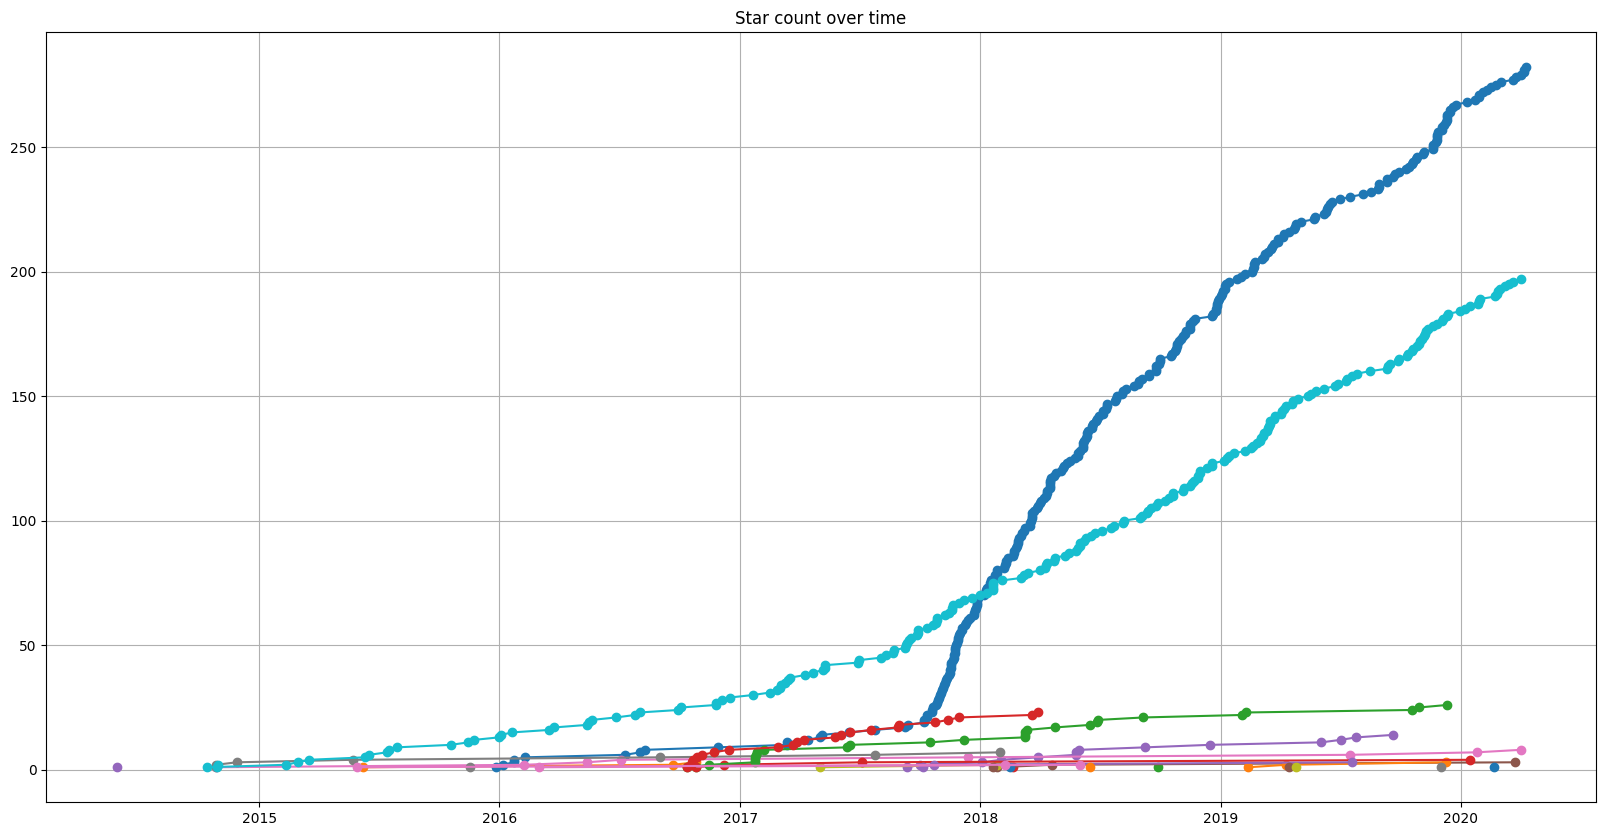
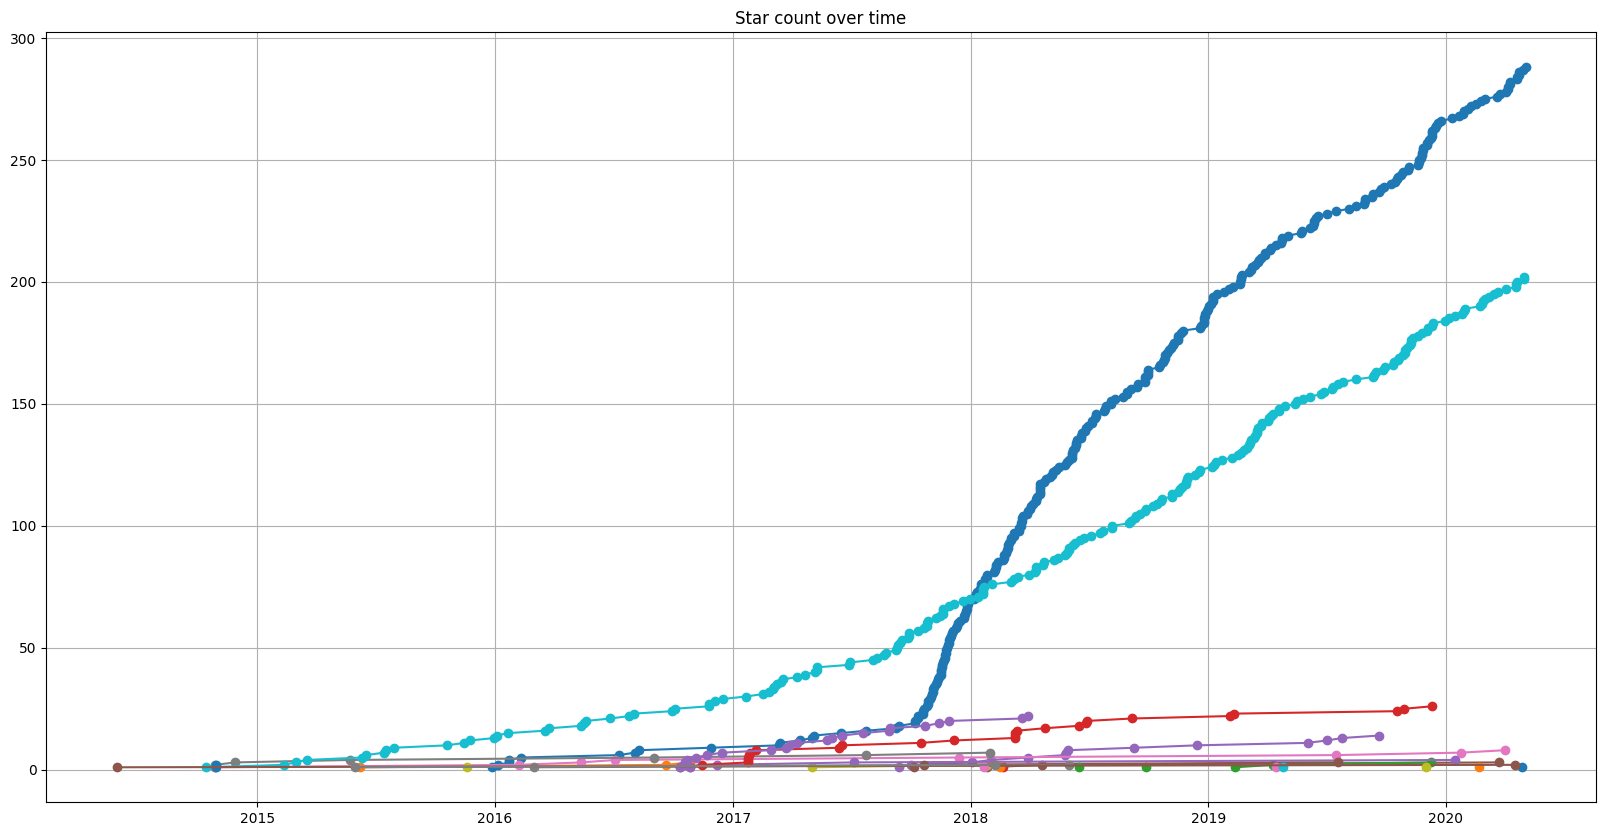
update

diff --git a/README.md b/README.md
@@ -3,7 +3,7 @@
 
 ![star plot](https://raw.github.com/FabriceSalvaire/github-map/master/star-plots/all.png)
 
-Overall stars: 593 :star:
+Overall stars: 605 :star:
 
 ## Python Packages
 
@@ -45,17 +45,17 @@ Overall stars: 593 :star:
 
 ## Python Tools for Developers
 
-* [CodeReview](https://github.com/FabriceSalvaire/CodeReview) 282 :star:</br>
+* [CodeReview](https://github.com/FabriceSalvaire/CodeReview) 288 :star:</br>
 
    CodeReview is a Git GUI tool to perform code review (Diff Viewer) written in Python3 and Qt5.
 
-   Updated on 2020-04-08
+   Updated on 2020-05-02
 
 * [github-map](https://github.com/FabriceSalvaire/github-map)
 
    A summary of my projects on Github (using API and Python)
 
-   Updated on 2020-04-01
+   Updated on 2020-04-08
 
 * [python-memo](https://github.com/FabriceSalvaire/python-memo)
 
@@ -71,29 +71,29 @@ Overall stars: 593 :star:
 
 ### Sphinx Documentation Generator
 
+* [sphinx-css3image](https://github.com/FabriceSalvaire/sphinx-css3image) 2 :star:</br>
+
+   This plugin provides an enhanced image directive with additional CSS properties for Sphinx Documentation Generator.
+
+   Updated on 2020-04-15
+
 * [sphinx-microdata](https://github.com/FabriceSalvaire/sphinx-microdata) 2 :star:</br>
 
    Microdata semantic markups support for Sphinx Documentation Generator.
 
    Updated on 2018-02-07
 
-* [sphinx-css3image](https://github.com/FabriceSalvaire/sphinx-css3image) 1 :star:</br>
+* [Pyterate](https://github.com/FabriceSalvaire/Pyterate) 1 :star:</br>
 
-   This plugin provides an enhanced image directive with additional CSS properties for Sphinx Documentation Generator.
+   Pyterate is Sphinx add-ons to generate documentation for Python projects
 
-   Updated on 2017-02-18
+   Updated on 2020-04-27
 
 * [sphinx-getthecode](https://github.com/FabriceSalvaire/sphinx-getthecode) 1 :star:</br>
 
    This plugin provides an enhanced literalinclude directive for the Sphinx Documentation Generator.
 
-   Updated on 2018-01-20
-
-* [Pyterate](https://github.com/FabriceSalvaire/Pyterate)
-
-   Pyterate is Sphinx add-ons to generate documentation for Python projects
-
-   Updated on 2020-01-21
+   Updated on 2020-04-27
 
 * [pygments-lexer](https://github.com/FabriceSalvaire/pygments-lexer)
 
@@ -181,11 +181,11 @@ Overall stars: 593 :star:
 
 ## Python for Electronic
 
-* [PySpice](https://github.com/FabriceSalvaire/PySpice) 197 :star:</br>
+* [PySpice](https://github.com/FabriceSalvaire/PySpice) 202 :star:</br>
 
    Simulate electronic circuit using Python and the Ngspice / Xyce simulators
 
-   Updated on 2020-04-01
+   Updated on 2020-05-04
 
 * [PyCpuSimulator](https://github.com/FabriceSalvaire/PyCpuSimulator) 3 :star:</br>
 
@@ -337,11 +337,11 @@ Overall stars: 593 :star:
 
 ## Web
 
-* [redmine-improved-theme](https://github.com/FabriceSalvaire/redmine-improved-theme) 23 :star:</br>
+* [redmine-improved-theme](https://github.com/FabriceSalvaire/redmine-improved-theme) 22 :star:</br>
 
    Redmine theme forked from the vanilla Redmine theme and converted to SASS
 
-   Updated on 2019-05-04
+   Updated on 2020-04-16
 
 * [css-demo](https://github.com/FabriceSalvaire/css-demo)
 
